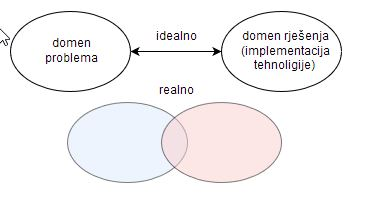
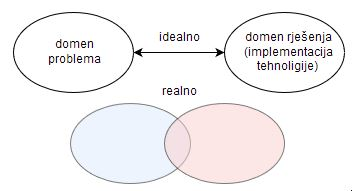
Slika 03

diff --git a/isz/predavanja/19_10_18.md b/isz/predavanja/19_10_18.md
@@ -25,3 +25,5 @@ Osnovne uloge koje ima SRS:
 - osnov za prijem implementiranog sistima (verifikacije)
 
 ## Princip radvajanja domena problema i domena rješenja (separation of concerns)
+
+![Razdvajanje](https://github.com/Milos5/fax/blob/master/isz/predavanja/slike/Slika_02.jpg "Princip razdvajanja domena problema i domena rješenja")
